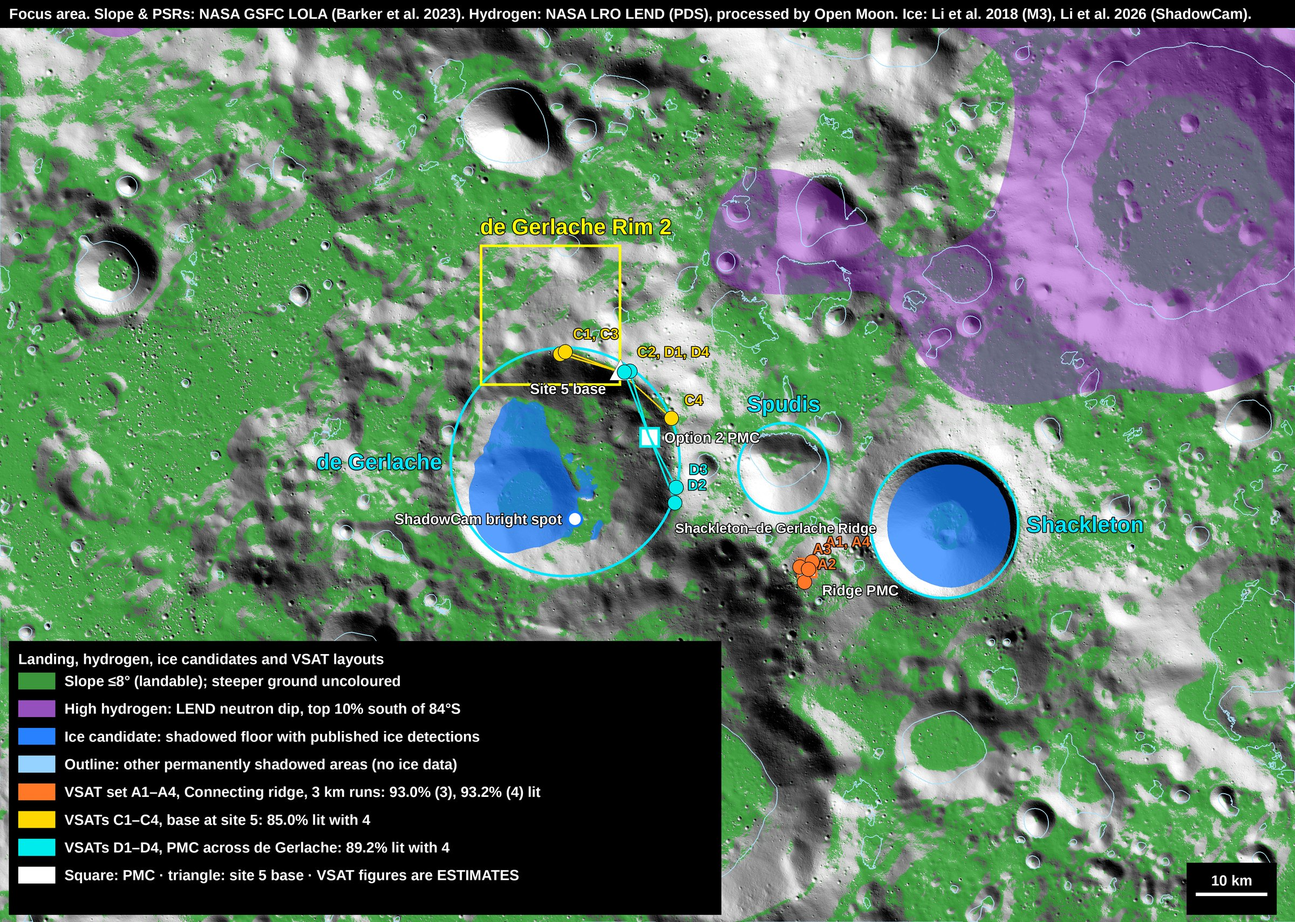
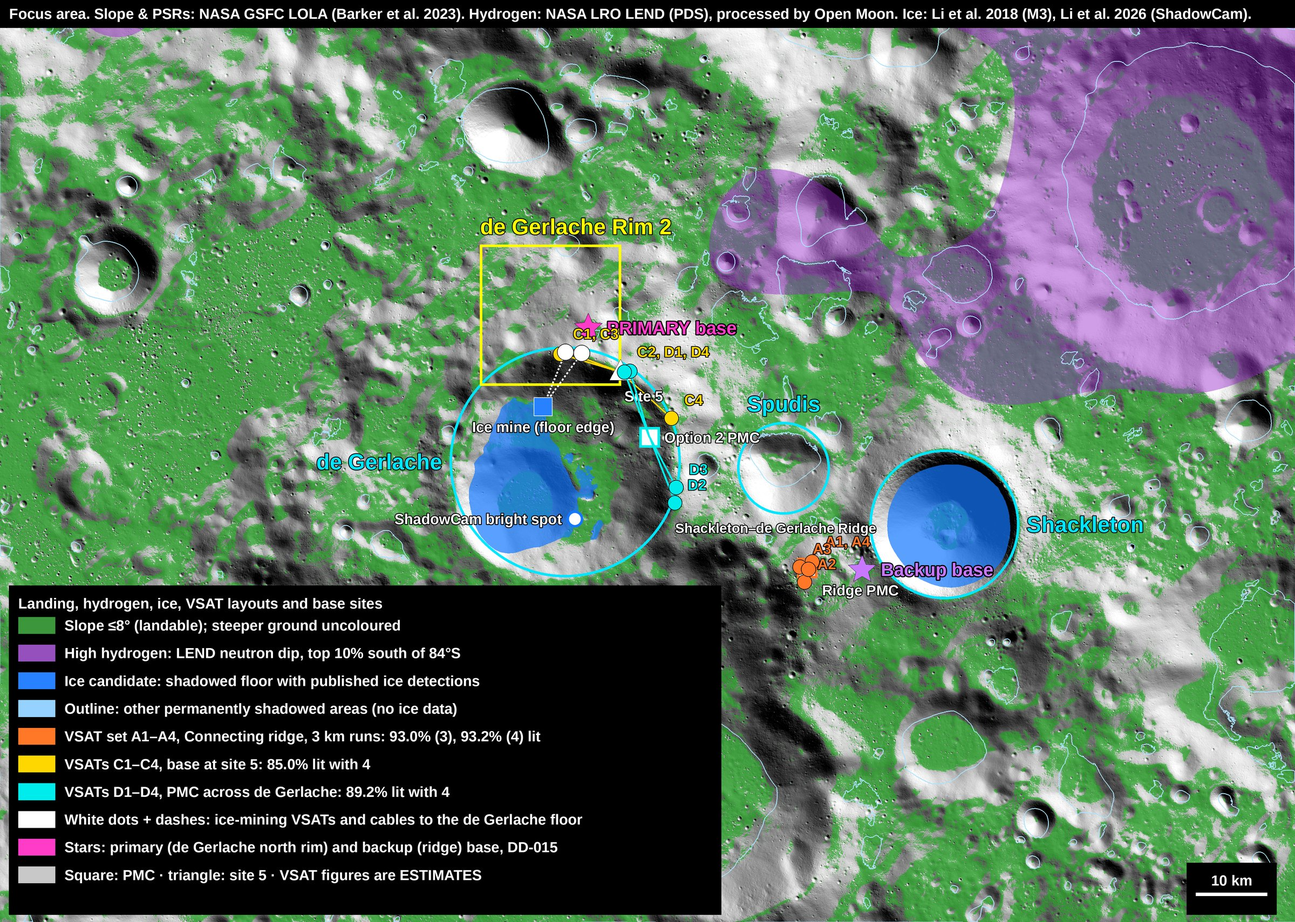
DD-015: primary base on de Gerlache north rim, backup on Connecting ridge; ice-mining VSATs; 13 km power-loss table
Claude-Session: https://claude.ai/code/session_01EMgvSv8Ki6A9jj7v8eiV3S

Changed region(s): [[0.0, 0.6199, 0.5625, 0.9608], [0.375, 0.3409, 0.5625, 0.4959], [0.6562, 0.5889, 0.7812, 0.6509]]

diff --git a/analysis/sunlight/multi/base_sites.py b/analysis/sunlight/multi/base_sites.py
@@ -1,0 +1,62 @@
+import sys, math, json, pickle, numpy as np, csv
+sys.path.insert(0,'../slope'); from render import read, px2m, lonlat2m
+import rasterio
+R=1737400.
+fx0,fy1=px2m(292,518); fx1,fy0=px2m(953,989); B=(fx0,fy0,fx1,fy1)
+mpp=(fx1-fx0)/2400.
+def img2m(x,y): return fx0+x*1.2*mpp, fy1-y*1.2*mpp
+def ll(X,Y):
+    rho=math.hypot(X,Y); return -(90-math.degrees(2*math.atan(rho/(2*R)))), math.degrees(math.atan2(X,Y))
+sites={'Circle 1 (north rim of de Gerlache)':img2m(908.6,507.0),'Circle 2 (Connecting ridge, by Shackleton)':img2m(1331.6,880.6)}
+# slope 40 m grid
+sl=read('LDSM_83S_10MPP_ADJ',B,40)
+def slope_at(X,Y,rad):
+    c=int((X-B[0])/40); r=int((B[3]-Y)/40); n=int(rad/40)
+    w=sl[max(0,r-n):r+n+1,max(0,c-n):c+n+1]; return float(sl[r,c]), float((w<=8).mean()*100)
+# NASA illumination
+il_ds=rasterio.open('../illum/AVGVISIB_85S_060M_201608.TIF')
+def illum(X,Y,rad=0):
+    if rad==0: return float(list(il_ds.sample([(X,Y)]))[0][0])*4e-3
+    from rasterio.windows import from_bounds
+    w=from_bounds(X-rad,Y-rad,X+rad,Y+rad,transform=il_ds.transform); a=il_ds.read(1,window=w).astype(float)*4e-3; return float(a.max())
+# PSRs
+P=pickle.load(open('../psr/psr_focus.pkl','rb'))
+CANDS={'Shackleton floor':(lonlat2m(-89.67,129.78),10.5e3),'de Gerlache floor':(lonlat2m(-88.5,-87.1),16.2e3)}
+def psr_dist(X,Y,which=None,minarea=0.0):
+    best=1e12
+    for g,a,n,b,rings in P:
+        if a<minarea: continue
+        cx,cy=(b[0]+b[2])/2,(b[1]+b[3])/2
+        if which is not None:
+            (px,py),rad=CANDS[which]
+            if a<1 or math.hypot(cx-px,cy-py)>rad: continue
+        if math.hypot(cx-X,cy-Y)-max(b[2]-b[0],b[3]-b[1])>best: continue
+        for r in rings:
+            d=np.hypot(r[:,0]-X,r[:,1]-Y).min(); best=min(best,d)
+    return best/1000
+# hydrogen high zone (1 km grid over focus)
+S=np.load('../slope/focus_S.npy'); Z=np.load('../slope/focus_Z.npy'); hi=(S>=1.28)&(Z>=3)
+jj,ii=np.nonzero(hi); HX=B[0]+(ii+0.5)*1000; HY=B[3]-(jj+0.5)*1000
+def hyd(X,Y):
+    c=int((X-B[0])/1000); r=int((B[3]-Y)/1000); return float(S[r,c]), float(np.hypot(HX-X,HY-Y).min()/1000)
+# VSAT sets
+M='/home/user/openmoon/analysis/sunlight/multi/'
+A=json.load(open(M+'vsat_sets.json'))['dd013'][3]; C=json.load(open(M+'dg_sets.json'))['dd014_10km'][3]; D=json.load(open(M+'dg_sets_span20.json'))['span20_pmc10'][3]
+spots=[(float(r['x_m']),float(r['y_m']),float(r['sunlit_pct'])) for r in csv.DictReader(open('/home/user/openmoon/analysis/sunlight/vsat_spots.csv'))]
+def dkm(X,Y,la,lo): x,y=lonlat2m(la,lo); return math.hypot(x-X,y-Y)/1000
+out={}
+for name,(X,Y) in sites.items():
+    la,lo=ll(X,Y); s0,f8=slope_at(X,Y,1000)
+    o={'lat':round(la,4),'lon':round(lo,2),'slope_deg':round(s0,1),'landable_within_1km_pct':round(f8,0),'sunlit_ground_pct':round(illum(X,Y),1),'best_sunlit_within_1km':round(illum(X,Y,1000),1),
+       'to_de_gerlache_floor_km':round(psr_dist(X,Y,'de Gerlache floor'),1),'to_shackleton_floor_km':round(psr_dist(X,Y,'Shackleton floor'),1),
+       'to_nearest_psr_0.5km2_km':round(psr_dist(X,Y,None,0.5),2),'to_shadowcam_spot_km':round(dkm(X,Y,-88.5352,-97.4007),1),
+       'hydrogen_dip_here_pct':round(hyd(X,Y)[0],2),'to_high_hydrogen_km':round(hyd(X,Y)[1],1),
+       'to_site5_km':round(dkm(X,Y,-88.6652,-68.42),1),'to_ridge_pmc_km':round(dkm(X,Y,*A['pmc']),1),'to_opt2_pmc_km':round(dkm(X,Y,*D['pmc']),1),
+       'setA_dists_km':[round(dkm(X,Y,s['lat'],s['lon']),1) for s in A['spots']],'setC_dists_km':[round(dkm(X,Y,s['lat'],s['lon']),1) for s in C['spots']],'setD_dists_km':[round(dkm(X,Y,s['lat'],s['lon']),1) for s in D['spots']]}
+    near=sorted([(math.hypot(x-X,y-Y)/1000,p) for x,y,p in spots])
+    o['vsat_sites_80_within_10km']=[ (round(d,1),p) for d,p in near if p>=80 and d<=10]
+    o['vsat_sites_70_within_10km']=len([1 for d,p in near if p>=70 and d<=10])
+    o['nearest_80_site']=[(round(d,1),p) for d,p in near if p>=80][:1]
+    out[name]=o
+json.dump(out,open('colony.json','w'),indent=1)
+for k,v in out.items(): print(k); [print('  ',a,':',b) for a,b in v.items()]

diff --git a/analysis/hydrogen/mk_lhi.py b/analysis/hydrogen/mk_lhi.py
@@ -81,9 +81,30 @@ _set(_A['spots'], RIDGE, 'A', pa)
 s5 = m2p(*lonlat2m(-88.6652, -68.42))
 _set(_C['spots'], OPT1, 'C', s5)
 dr.polygon([(s5[0], s5[1] - 14 * k), (s5[0] - 12 * k, s5[1] + 9 * k), (s5[0] + 12 * k, s5[1] + 9 * k)], fill='white', outline='black')
-dr.text((s5[0] - 16 * k, s5[1] + 18 * k), 'Site 5 base', font=Fs, fill='white', anchor='rm', stroke_width=3, stroke_fill=(0, 0, 0))
+dr.text((s5[0] + 4 * k, s5[1] + 26 * k), 'Site 5', font=Fs, fill='white', anchor='lm', stroke_width=3, stroke_fill=(0, 0, 0))
 pd = _pmc(*_D['pmc'], OPT2, 'Option 2 PMC', (16, 0))
 _set(_D['spots'], OPT2, 'D', pd)
+# DD-015 base sites and ice-mining VSATs (ESTIMATE)
+def _star(la, lo, col, lab, side):
+    x, y = m2p(*lonlat2m(la, lo)); r = 16 * k; pts = []
+    for i in range(10):
+        a = math.pi / 2 + i * math.pi / 5; rr = r if i % 2 == 0 else r * 0.45
+        pts.append((x + rr * math.cos(a), y - rr * math.sin(a)))
+    dr.polygon(pts, fill=col, outline='black')
+    dr.text((x + (20 * k if side == 'r' else -20 * k), y), lab, font=font(20 * k), fill=col, anchor='lm' if side == 'r' else 'rm', stroke_width=4, stroke_fill=(0, 0, 0))
+    return x, y
+ICE = (255, 255, 255)
+mine = m2p(*lonlat2m(-88.3664, -78.31))
+for la, lo in ((-88.4657, -67.87), (-88.3937, -68.69)):
+    x, y = m2p(*lonlat2m(la, lo))
+    for q_ in range(0, 100, 6):  # dashed cable to the mine
+        t0, t1 = q_ / 100, min(1, (q_ + 3) / 100)
+        dr.line([(x + (mine[0] - x) * t0, y + (mine[1] - y) * t0), (x + (mine[0] - x) * t1, y + (mine[1] - y) * t1)], fill=ICE, width=max(2, int(2 * k)))
+    r = 9 * k; dr.ellipse((x - r, y - r, x + r, y + r), fill=ICE, outline='black', width=2)
+r = 10 * k; dr.rectangle((mine[0] - r, mine[1] - r, mine[0] + r, mine[1] + r), fill=(40, 130, 255), outline='white', width=2)
+dr.text((mine[0], mine[1] + 16 * k), 'Ice mine (floor edge)', font=Fs, fill='white', anchor='mt', stroke_width=3, stroke_fill=(0, 0, 0))
+_star(-88.4453, -63.44, (255, 60, 200), 'PRIMARY base', 'r')
+_star(-89.5587, -163.66, (200, 120, 255), 'Backup base', 'r')
 # group labels for spots within ~1.5 km (37 px at 40 m/px)
 groups = []
 for x, y, t, c in _LAB:
@@ -93,9 +114,9 @@ for x, y, t, c in _LAB:
 for x, y, items in groups:
     txt = ', '.join(t for t, _ in items); col = items[0][1]
     dr.text((x + 14 * k, y - 14 * k), txt, font=Fs, fill=col, anchor='lb', stroke_width=3, stroke_fill=(0, 0, 0))
-lx, ly = int(20 * k), H - int(270 * k)
+lx, ly = int(20 * k), H - int(330 * k)
 dr.rectangle((lx - 10 * k, ly - 34 * k, lx + 760 * k, H - 8 * k), fill=(0, 0, 0))
-dr.text((lx, ly - 6 * k), 'Landing, hydrogen, ice candidates and VSAT layouts', font=Fs, fill='white', anchor='ld')
+dr.text((lx, ly - 6 * k), 'Landing, hydrogen, ice, VSAT layouts and base sites', font=Fs, fill='white', anchor='ld')
 rows = [((60, 150, 60), 'Slope ≤8° (landable); steeper ground uncoloured'),
         ((150, 80, 190), 'High hydrogen: LEND neutron dip, top 10% south of 84°S'),
         ((40, 130, 255), 'Ice candidate: shadowed floor with published ice detections'),
@@ -103,7 +124,9 @@ rows = [((60, 150, 60), 'Slope ≤8° (landable); steeper ground uncoloured'),
         (RIDGE, 'VSAT set A1–A4, Connecting ridge, 3 km runs: 93.0% (3), 93.2% (4) lit'),
         (OPT1, 'VSATs C1–C4, base at site 5: 85.0% lit with 4'),
         (OPT2, 'VSATs D1–D4, PMC across de Gerlache: 89.2% lit with 4'),
-        ((255, 255, 255), 'Square: PMC · triangle: site 5 base · VSAT figures are ESTIMATES')]
+        ((255, 255, 255), 'White dots + dashes: ice-mining VSATs and cables to the de Gerlache floor'),
+        ((255, 60, 200), 'Stars: primary (de Gerlache north rim) and backup (ridge) base, DD-015'),
+        ((200, 200, 200), 'Square: PMC · triangle: site 5 · VSAT figures are ESTIMATES')]
 for i, (c, t) in enumerate(rows):
     yy = ly + i * 30 * k; dr.rectangle((lx, yy, lx + 40 * k, yy + 18 * k), fill=c); dr.text((lx + 50 * k, yy + 9 * k), t, font=Fs, fill='white', anchor='lm')
 L = 10000 / RES; sx = W - L - 30 * k; sy = H - 30 * k

diff --git a/_milestones/m00-site-selection.md b/_milestones/m00-site-selection.md
@@ -105,7 +105,8 @@ risks:
 - **Landers compared:** no lander publishes a certified slope limit above 10° ([Lander candidates]({{ '/landers/' | relative_url }})).
 - **Hydrogen mapped:** 13 % of the focus area is high hydrogen in NASA's LEND data, mostly in the upper right (around 88°S, 0–60°E), away from the craters.
 - **Ice candidates:** the shadowed floors of Shackleton and de Gerlache (483 km² together) have published but unconfirmed ice detections. Spudis and the ridge craters have no ice data.
-- **Next:** choose primary and backup sites from these layers, then prove the ice and hydrogen on the ground in M01.
+- **Base sites chosen (DD-015):** primary on de Gerlache's north rim at 88.445°S, 63.44°W; backup on the Connecting ridge by Shackleton at 89.559°S, 163.66°W.
+- **Next:** prove the ice and hydrogen at both sites on the ground in M01.
 
 ## Why the south pole
 
@@ -384,9 +385,55 @@ Blue marks the permanently shadowed floors of Shackleton (233 km²) and de Gerla
 - **Shackleton:** a bright floor in LOLA data, radar results allowing some ice in its walls, and nearby M3 ice spectra; but Kaguya and ShadowCam found no exposed ice, and part of the floor gets above 110 K in summer.
 - **de Gerlache:** one M3 ice spectrum and the ShadowCam bright spot, which needs more viewing angles to test.
 
+## Base sites (DD-015)
+
+{% include decision-note.html id="DD-015" %}
+
+Both sites were picked on the combined map below. Figures are measured from the same data as the maps above; VSAT figures are **ESTIMATES** at ground level. Distances are straight lines; cable and road routes will be longer.
+
+| | **Primary: de Gerlache north rim** | **Backup: Connecting ridge by Shackleton** |
+|---|---|---|
+| Position | 88.445°S, 63.44°W (inside NASA's de Gerlache Rim 2) | 89.559°S, 163.66°W |
+| Slope at the site; ground ≤8° within 1 km | 5.0°; 65 % | 5.8°; 69 % |
+| VSAT sites ≥80 % sunlit within 10 km | 1 (site 5, 82.7 %, 7.7 km) | 5 (best 88.4 % at 7.1 km and 87.1 % at 3.9 km) |
+| VSAT sites ≥70 % within 10 km | 7 | 15 |
+| Best VSAT layout (ESTIMATE) | base at site 5 (C1–C4): 85.0 % lit, longest blackout ~6 days | Connecting ridge trio: 93.0 % lit, longest blackout ~4.8 days |
+| Nearest ice-candidate floor | de Gerlache floor edge, 12.7 km | Shackleton floor edge, 5.2 km |
+| Small shadowed craters (no ice data) | 0.9 km² at 0.8 km; 3.5 km² at 4.0 km | 2.0 km² beside the site; two more within 2.6 km |
+| ShadowCam bright spot | 26.9 km | 40.9 km |
+| LEND hydrogen at the site; nearest high-hydrogen zone | 0.82 % dip; 19.9 km | 0.55 % dip; 28.9 km |
+| Distance between the sites | about 44 km | |
+
+### Ice mining for the primary site (ESTIMATE)
+
+The de Gerlache floor is 12.7 km from the primary base, beyond the 10 km extended-run limit (DD-014). So mining power comes from VSATs on the rim that sit within 10 km of the floor (plan design):
+
+| Mining VSAT | Position | Sunlit (NASA map; Open Moon estimate) | To the floor edge | To the primary base |
+|---|---|---|---|---|
+| M1 (also VSAT site 12) | 88.4657°S, 67.87°W | 75.1 %; 72.7 % | 9.2 km, to 88.3664°S, 78.31°W | 3.7 km |
+| M2 (also C3) | 88.3937°S, 68.69°W | 71.9 %; 71.2 % | 8.1 km, to 88.3395°S, 77.87°W | 4.7 km |
+
+- **Together, M1 and M2 are lit 77.4 % of the time (ESTIMATE)**, 2.3 km apart, but both go dark together for up to about 14 days, so mining is paused or battery-backed through those stretches.
+- **Power:** two 10 kW VSATs give about 20 kW peak for the ~15 kW mine (C06.2). Each cable run to the floor is under 10 km, an extended run (DD-014), and each VSAT is a standard 3–5 km from the base, so the same towers can feed the base when the mine is idle.
+- **The mine target** is the floor edge nearest the rim. No published ice detection has coordinates there; M01 must measure ice along this edge before mining is planned.
+
+### Power loss over a 13 km run (this plan's arithmetic)
+
+A direct run from the primary base to the floor edge is about 13 km. At 3 kV, 3-phase, unity power factor, aluminium at 26.5 nΩ·m (the C04.4 method), loss grows in step with length:
+
+| Load | 8 AWG (8.37 mm²) | 5.9 mm² | 3.9 mm² | Area for 10 % / 15 % loss | Aluminium mass at 10 % / 15 % |
+|---|---|---|---|---|---|
+| 10 kW (one VSAT) | 4.6 % (457 W) | 6.5 % (650 W) | 9.7 % (974 W) | 3.8 / 2.6 mm² | 403 / 269 kg |
+| 15 kW (ice mine) | 6.9 % (1,029 W) | 9.7 % (1,462 W) | 14.6 % (2,191 W) | 5.7 / 3.8 mm² | 604 / 403 kg |
+| 20 kW (reactor) | 9.1 % (1,829 W) | 13.0 % (2,600 W) | 19.5 % (3,896 W) | 7.7 / 5.1 mm² | 806 / 537 kg |
+
+- On the cable sizes already planned, a 13 km run stays within 10–15 % loss for loads up to 15 kW, and for 20 kW on 8 AWG or 5.9 mm².
+- **Cable and spool:** about 4.2 t at NASA's 325 kg per km planning figure, against 3.3 t for 10 km.
+- **Not allowed yet:** 13 km is beyond DD-014's 10 km maximum, and NASA warns long runs may need a lower frequency; it would need a new design decision and a voltage and stability check. The rim VSATs above avoid it.
+
 ## All layers combined
 
-Green: slope of 8° or less (landable for every published lander rule); steeper ground is left uncoloured. **Purple:** high hydrogen from LEND. **Blue:** ice candidates. White dot: ShadowCam bright spot. **VSAT layouts (ESTIMATE, see Sunlight and VSAT locations):** orange A1–A4, the Connecting ridge set on standard 3 km runs (93.0 % lit with three, 93.2 % with four); yellow C1–C4, base at site 5 (85.0 % with four); cyan D1–D4, PMC across de Gerlache (89.2 % with four). Squares are PMCs; the triangle is the site 5 base. Spots less than about 1.5 km apart share one label.
+Green: slope of 8° or less (landable for every published lander rule); steeper ground is left uncoloured. **Purple:** high hydrogen from LEND. **Blue:** ice candidates. White dot: ShadowCam bright spot. **VSAT layouts (ESTIMATE, see Sunlight and VSAT locations):** orange A1–A4, the Connecting ridge set on standard 3 km runs (93.0 % lit with three, 93.2 % with four); yellow C1–C4, base at site 5 (85.0 % with four); cyan D1–D4, PMC across de Gerlache (89.2 % with four). Squares are PMCs; the triangle is site 5. Stars are the primary (magenta) and backup (violet) base sites (DD-015); white dots with dashed lines are the ice-mining VSATs and their cables to the de Gerlache floor. Spots less than about 1.5 km apart share one label.
 
 ![Open Moon focus area: landable ground of 8° or less in green, high hydrogen in purple, ice-candidate shadowed floors in blue, and the VSAT layouts on the Connecting ridge and the de Gerlache rim]({{ '/assets/sites/focus-landing-hydrogen.jpg' | relative_url }})
 

diff --git a/_components/c06-2-ice-mining.md b/_components/c06-2-ice-mining.md
@@ -90,6 +90,10 @@ This plan follows the architecture of a NASA case study. Excavators work in the 
 
 {% include decision-note.html id="DD-014" extra="A mine at NASA's ~5 km distance can now draw grid power over an extended run." %}
 
+**Primary base site (DD-015).** At the primary site on de Gerlache's north rim, the mine is planned at the edge of de Gerlache's shadowed floor around 88.37°S, 78.3°W, 12.7–13 km from the base. It is powered by two rim VSATs 8–9 km from the floor edge (M00, "Ice mining for the primary site"), not by a direct 13 km run from the base (plan design; ESTIMATE for sunlight).
+
+{% include decision-note.html id="DD-015" %}
+
 ## Sizing
 
 The NASA baseline: 15 t of water from regolith with 5% water and 75% extraction needed 398 t of regolith, a 32 m × 32 m mine 30 cm deep, and 22 kW at the mine, over 225 days of production<sup class="r">[1](#s1)</sup>.
